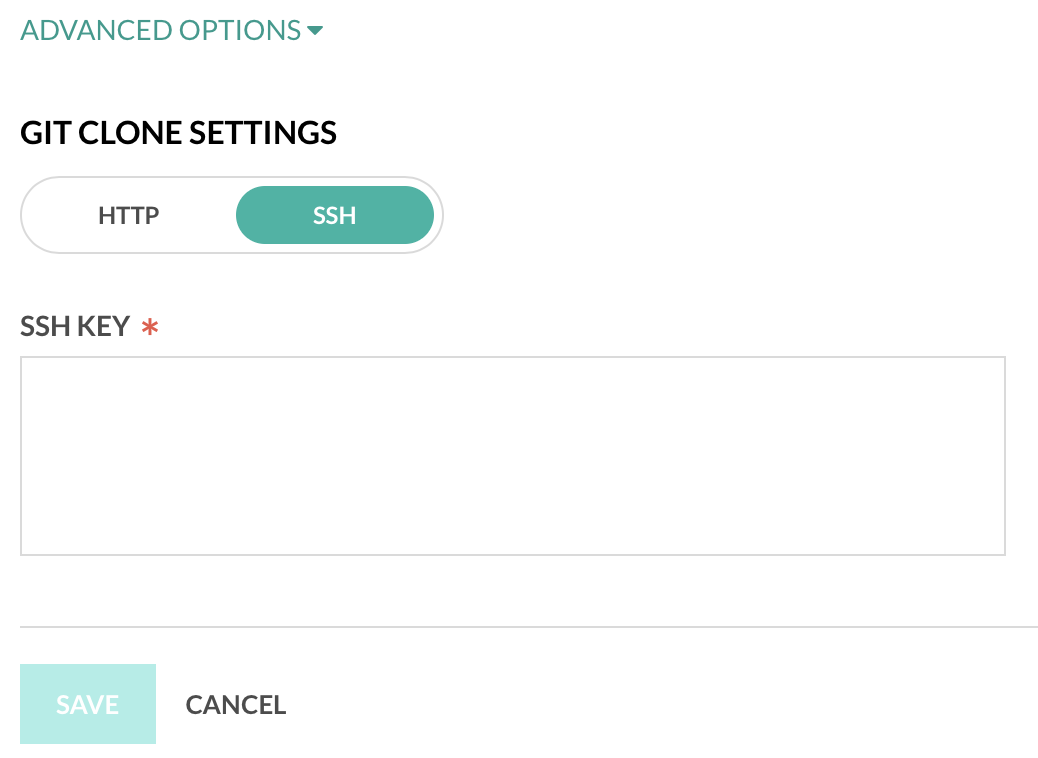
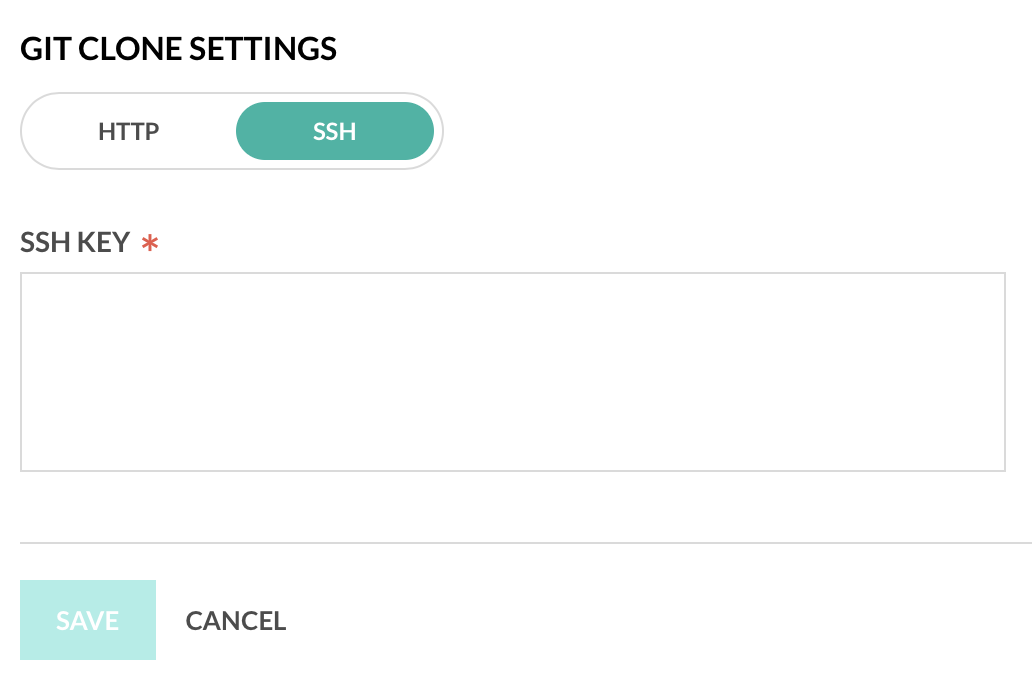
Modifications

diff --git a/_docs/integrations/git-providers.md b/_docs/integrations/git-providers.md
@@ -57,6 +57,27 @@ or the provider does not support it, you need to manually create credentials by 
 
 In the case of an on-premise GIT provider you also need to fill in the URL where the provider is installed.
 
+## SSH Keys
+
+You have the ability to specify whether you want to clone via HTTPS or SSH.  Under the *General* menu, simply toggle to your desired option.
+
+{% include image.html 
+lightbox="true" 
+file="/images/integrations/git/github-ssh.png" 
+url="/images/integrations/git/github-ssh.png"
+max-width="40%"
+caption="Git SSH Options"
+alt="Git SSH Options"
+%}
+
+For SSH, if you haven't already, you will need to generate an SSH keypair and add your public key to your VCS, as instructed in its official documentation:
+ 
+- [Github documentation](https://help.github.com/en/github/authenticating-to-github/generating-a-new-ssh-key-and-adding-it-to-the-ssh-agent).
+- [Gitlab documentation](https://docs.gitlab.com/ee/ssh/#generating-a-new-ssh-key-pair)
+- [Bitbucket documentation](https://confluence.atlassian.com/bitbucket/set-up-an-ssh-key-728138079.html)
+- [Azure documentation](https://docs.microsoft.com/en-us/azure/devops/repos/git/use-ssh-keys-to-authenticate?view=azure-devops&tabs=current-page)
+
+Paste your **raw**, private key into the SSH Key text box and click save.
 
 ## GitHub
 
@@ -92,26 +113,6 @@ alt="Github permissions"
 
 For Github on-premise you also need to provide the URL of the GitHub server in your organization.
 
-**Access Key Advanced Options**
-
-You have the ability to specify whether you want to clone via HTTPS or SSH.  Expand the *Advanced Options* menu and simply toggle to your desired option.
-
-{% include image.html 
-lightbox="true" 
-file="/images/integrations/git/github-ssh.png" 
-url="/images/integrations/git/github-ssh.png"
-max-width="40%"
-caption="Git SSH Options"
-alt="Git SSH Options"
-%}
-
->Note that SSH cloning is currently only available using the On-premise version of Codefresh.
-
-For SSH, if you haven't already, you will need to generate an SSH keypair and add your public key to Github, as instructed in the [Github documentation](https://help.github.com/en/github/authenticating-to-github/generating-a-new-ssh-key-and-adding-it-to-the-ssh-agent).
-
-Paste your raw, private key into the SSH Key text box.
-
-
 ## Gitlab
 
 For the **OAuth2 method** you only need to enable private repository access, enter a name for your connection and click *Save*. Then accept the permissions dialog. This is the easiest and recommended way to integrate Gitlab. Notice that if
@@ -132,25 +133,6 @@ Once you have the token, paste it in the Codefresh UI and click *Test connection
 now save the git integration.
 
 For Gitlab on-premise you also need to provide the URL of the Gitlab server in your organization.
-
-**Access Key Advanced Options**
-
-You have the ability to specify whether you want to clone via HTTPS or SSH.  Expand the *Advanced Options* menu and simply toggle to your desired option.
-
-{% include image.html 
-lightbox="true" 
-file="/images/integrations/git/github-ssh.png" 
-url="/images/integrations/git/github-ssh.png"
-max-width="40%"
-caption="Git SSH Options"
-alt="Git SSH Options"
-%}
-
->Note that SSH cloning is currently only available using the On-premise version of Codefresh.
-
-For SSH, if you haven't already, you will need to generate an SSH keypair and add your public key to Gitlab, as instructed in the [Gitlab documentation](https://docs.gitlab.com/ee/ssh/#generating-a-new-ssh-key-pair).
-
-Paste your raw, private key into the SSH Key text box.
 
 ## Bitbucket
 
@@ -179,25 +161,6 @@ alt="Bitbucket permissions"
 
 The "label" you enter in your Bitbucket account in order to create the application password is completely arbitrary (use "Codefresh" for an example). Once you have the token, paste it in the Codefresh UI and click *Test connection*. If everything is OK you can
 now save the git integration.
-
-**Application Password Advanced Options**
-
-You have the ability to specify whether you want to clone via HTTPS or SSH.  Expand the *Advanced Options* menu and simply toggle to your desired option.
-
-{% include image.html 
-lightbox="true" 
-file="/images/integrations/git/github-ssh.png" 
-url="/images/integrations/git/github-ssh.png"
-max-width="40%"
-caption="Git SSH Options"
-alt="Git SSH Options"
-%}
-
->Note that SSH cloning is currently only available using the On-premise version of Codefresh.
-
-For SSH, if you haven't already, you will need to generate an SSH keypair and add your public key to BitBucket, as instructed in the [Bitbucket documentation](https://confluence.atlassian.com/bitbucket/set-up-an-ssh-key-728138079.html).
-
-Paste your raw, private key into the SSH Key text box.
 
 ## Azure DevOps
 
@@ -264,25 +227,6 @@ alt="Codefresh integration with Azure Devops"
 %}
 
 Your Azure DevOps repositories will be available when [creating a new project in Codefresh]({{site.baseurl}}/docs/getting-started/create-a-basic-pipeline/).
-
-**Personal Access Token Advanced Options**
-
-You have the ability to specify whether you want to clone via HTTPS or SSH.  Expand the *Advanced Options* menu and simply toggle to your desired option.
-
-{% include image.html 
-lightbox="true" 
-file="/images/integrations/git/github-ssh.png" 
-url="/images/integrations/git/github-ssh.png"
-max-width="40%"
-caption="Git SSH Options"
-alt="Git SSH Options"
-%}
-
->Note that SSH cloning is currently only available using the On-premise version of Codefresh.
-
-For SSH, if you haven't already, you will need to generate an SSH keypair and add your public key to Azure, as instructed in the [Azure documentation](https://docs.microsoft.com/en-us/azure/devops/repos/git/use-ssh-keys-to-authenticate?view=azure-devops&tabs=current-page).
-
-Paste your raw, private key into the SSH Key text box.
 
 ## Atlassian Stash 
 
